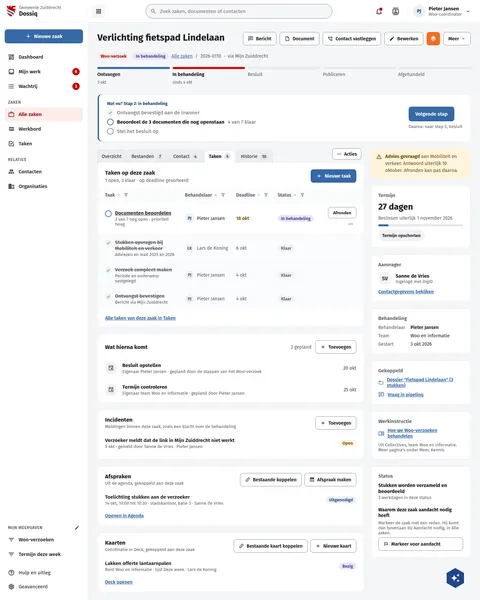
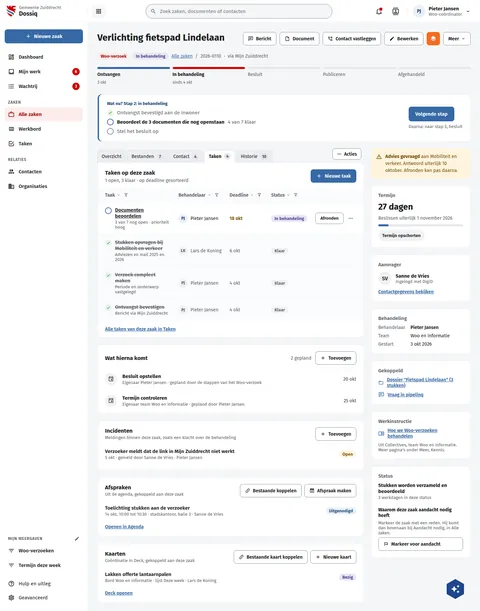
fix(screens): DqZaakTaken keeps the task menu on Afronden's line
#492 added the Taakacties menu beside Afronden, but the actions cell
wrapped it onto a second line, so the board's task row drew 97px against
dossiq's 79.4. The actions cell no longer wraps.

Assisted-by: ClaudeCode:claude-opus-5-5

diff --git a/preview/screens/boards/DqZaakTaken.html b/preview/screens/boards/DqZaakTaken.html
@@ -251,7 +251,7 @@ a{color:var(--sc-primary, #3669a5)}a:hover{color:var(--sc-primary-deep, #234a78)
                         <td style="padding: 14px 12px"><span style="display: flex; align-items: center; gap: 8px; white-space: nowrap"><span style="width: 28px; height: 28px; border-radius: 14px; font-size: 12px; font-weight: 700; display: flex; align-items: center; justify-content: center; background: var(--sc-primary-light, #eaf0f7); color: var(--sc-primary-deep, #234a78)">PJ</span>Pieter Jansen</span></td>
                         <td style="padding: 14px 12px; white-space: nowrap"><span style="font-weight: 600; color: #7a4f00">18 okt</span></td>
                         <td style="padding: 14px 12px"><span style="display: inline-block; padding: 3px 10px; border-radius: 12px; font-size: 13px; font-weight: 600; white-space: nowrap; background: #e8e6f6; color: #4a3f8f">In behandeling</span></td>
-                        <td style="padding: 14px 22px 14px 12px; text-align: right"><button type="button" style="height: 34px; padding: 0 14px; border: 1px solid var(--sc-work-field, #828a95); border-radius: 8px; background: #ffffff; font: 600 13px var(--sc-font, 'Fira Sans'), sans-serif; color: var(--sc-work-ink, #1b1c1d); white-space: nowrap">Afronden</button><button type="button" aria-label="Taakacties" style="width: 34px; height: 34px; margin-left: 4px; display: inline-flex; vertical-align: middle; align-items: center; justify-content: center; border: 0; border-radius: 8px; background: transparent; color: var(--sc-primary, #3669a5)"><svg width="18" height="18" viewbox="0 0 24 24" fill="currentColor" aria-hidden="true"><path d="M16,12A2,2 0 0,1 18,10A2,2 0 0,1 20,12A2,2 0 0,1 18,14A2,2 0 0,1 16,12M10,12A2,2 0 0,1 12,10A2,2 0 0,1 14,12A2,2 0 0,1 12,14A2,2 0 0,1 10,12M4,12A2,2 0 0,1 6,10A2,2 0 0,1 8,12A2,2 0 0,1 6,14A2,2 0 0,1 4,12Z"></path></svg></button></td>
+                        <td style="padding: 14px 22px 14px 12px; text-align: right; white-space: nowrap"><button type="button" style="height: 34px; padding: 0 14px; border: 1px solid var(--sc-work-field, #828a95); border-radius: 8px; background: #ffffff; font: 600 13px var(--sc-font, 'Fira Sans'), sans-serif; color: var(--sc-work-ink, #1b1c1d); white-space: nowrap">Afronden</button><button type="button" aria-label="Taakacties" style="width: 34px; height: 34px; margin-left: 4px; display: inline-flex; vertical-align: middle; align-items: center; justify-content: center; border: 0; border-radius: 8px; background: transparent; color: var(--sc-primary, #3669a5)"><svg width="18" height="18" viewbox="0 0 24 24" fill="currentColor" aria-hidden="true"><path d="M16,12A2,2 0 0,1 18,10A2,2 0 0,1 20,12A2,2 0 0,1 18,14A2,2 0 0,1 16,12M10,12A2,2 0 0,1 12,10A2,2 0 0,1 14,12A2,2 0 0,1 12,14A2,2 0 0,1 10,12M4,12A2,2 0 0,1 6,10A2,2 0 0,1 8,12A2,2 0 0,1 6,14A2,2 0 0,1 4,12Z"></path></svg></button></td>
                       </tr>
                     
                       <tr style="border-top: 1px solid var(--sc-work-soft, #eef0f3); background: #fafbfc; color: var(--sc-work-muted, #5e6168)">
@@ -259,7 +259,7 @@ a{color:var(--sc-primary, #3669a5)}a:hover{color:var(--sc-primary-deep, #234a78)
                         <td style="padding: 14px 12px"><span style="display: flex; align-items: center; gap: 8px; white-space: nowrap"><span style="width: 28px; height: 28px; border-radius: 14px; font-size: 12px; font-weight: 700; display: flex; align-items: center; justify-content: center; background: var(--sc-work-chip, #f0f1f3); color: var(--sc-work-muted, #5e6168)">LK</span>Lars de Koning</span></td>
                         <td style="padding: 14px 12px; white-space: nowrap"><span style="color: var(--sc-work-muted, #5e6168)">6 okt</span></td>
                         <td style="padding: 14px 12px"><span style="display: inline-block; padding: 3px 10px; border-radius: 12px; font-size: 13px; font-weight: 600; white-space: nowrap; background: var(--sc-work-chip, #f0f1f3); color: var(--sc-work-muted, #5e6168)">Klaar</span></td>
-                        <td style="padding: 14px 22px 14px 12px; text-align: right"></td>
+                        <td style="padding: 14px 22px 14px 12px; text-align: right; white-space: nowrap"></td>
                       </tr>
                     
                       <tr style="border-top: 1px solid var(--sc-work-soft, #eef0f3); background: #fafbfc; color: var(--sc-work-muted, #5e6168)">
@@ -267,7 +267,7 @@ a{color:var(--sc-primary, #3669a5)}a:hover{color:var(--sc-primary-deep, #234a78)
                         <td style="padding: 14px 12px"><span style="display: flex; align-items: center; gap: 8px; white-space: nowrap"><span style="width: 28px; height: 28px; border-radius: 14px; font-size: 12px; font-weight: 700; display: flex; align-items: center; justify-content: center; background: var(--sc-work-chip, #f0f1f3); color: var(--sc-work-muted, #5e6168)">PJ</span>Pieter Jansen</span></td>
                         <td style="padding: 14px 12px; white-space: nowrap"><span style="color: var(--sc-work-muted, #5e6168)">4 okt</span></td>
                         <td style="padding: 14px 12px"><span style="display: inline-block; padding: 3px 10px; border-radius: 12px; font-size: 13px; font-weight: 600; white-space: nowrap; background: var(--sc-work-chip, #f0f1f3); color: var(--sc-work-muted, #5e6168)">Klaar</span></td>
-                        <td style="padding: 14px 22px 14px 12px; text-align: right"></td>
+                        <td style="padding: 14px 22px 14px 12px; text-align: right; white-space: nowrap"></td>
                       </tr>
                     
                       <tr style="border-top: 1px solid var(--sc-work-soft, #eef0f3); background: #fafbfc; color: var(--sc-work-muted, #5e6168)">
@@ -275,7 +275,7 @@ a{color:var(--sc-primary, #3669a5)}a:hover{color:var(--sc-primary-deep, #234a78)
                         <td style="padding: 14px 12px"><span style="display: flex; align-items: center; gap: 8px; white-space: nowrap"><span style="width: 28px; height: 28px; border-radius: 14px; font-size: 12px; font-weight: 700; display: flex; align-items: center; justify-content: center; background: var(--sc-work-chip, #f0f1f3); color: var(--sc-work-muted, #5e6168)">PJ</span>Pieter Jansen</span></td>
                         <td style="padding: 14px 12px; white-space: nowrap"><span style="color: var(--sc-work-muted, #5e6168)">4 okt</span></td>
                         <td style="padding: 14px 12px"><span style="display: inline-block; padding: 3px 10px; border-radius: 12px; font-size: 13px; font-weight: 600; white-space: nowrap; background: var(--sc-work-chip, #f0f1f3); color: var(--sc-work-muted, #5e6168)">Klaar</span></td>
-                        <td style="padding: 14px 22px 14px 12px; text-align: right"></td>
+                        <td style="padding: 14px 22px 14px 12px; text-align: right; white-space: nowrap"></td>
                       </tr>
                     
                   </tbody>

diff --git a/screens-src/zuiddrecht/DqZaakTaken.dc.html b/screens-src/zuiddrecht/DqZaakTaken.dc.html
@@ -101,7 +101,7 @@ a{color:#3669a5}a:hover{color:#234a78}
                         <td style="padding: 14px 12px"><span style="display: flex; align-items: center; gap: 8px; white-space: nowrap"><span style="{{ t.avatar }}">{{ t.initials }}</span>{{ t.owner }}</span></td>
                         <td style="padding: 14px 12px; white-space: nowrap"><span style="{{ t.dueStyle }}">{{ t.due }}</span></td>
                         <td style="padding: 14px 12px"><span style="{{ t.pill }}">{{ t.status }}</span></td>
-                        <td style="padding: 14px 22px 14px 12px; text-align: right"><sc-if value="{{ t.open }}" hint-placeholder-val="{{ false }}"><button type="button" style="height: 34px; padding: 0 14px; border: 1px solid #828a95; border-radius: 8px; background: #ffffff; font: 600 13px 'Fira Sans', sans-serif; color: #1b1c1d; white-space: nowrap">Afronden</button><button type="button" aria-label="Taakacties" style="width: 34px; height: 34px; margin-left: 4px; display: inline-flex; vertical-align: middle; align-items: center; justify-content: center; border: 0; border-radius: 8px; background: transparent; color: #3669a5"><svg width="18" height="18" viewBox="0 0 24 24" fill="currentColor" aria-hidden="true"><path d="M16,12A2,2 0 0,1 18,10A2,2 0 0,1 20,12A2,2 0 0,1 18,14A2,2 0 0,1 16,12M10,12A2,2 0 0,1 12,10A2,2 0 0,1 14,12A2,2 0 0,1 12,14A2,2 0 0,1 10,12M4,12A2,2 0 0,1 6,10A2,2 0 0,1 8,12A2,2 0 0,1 6,14A2,2 0 0,1 4,12Z"></path></svg></button></sc-if></td>
+                        <td style="padding: 14px 22px 14px 12px; text-align: right; white-space: nowrap"><sc-if value="{{ t.open }}" hint-placeholder-val="{{ false }}"><button type="button" style="height: 34px; padding: 0 14px; border: 1px solid #828a95; border-radius: 8px; background: #ffffff; font: 600 13px 'Fira Sans', sans-serif; color: #1b1c1d; white-space: nowrap">Afronden</button><button type="button" aria-label="Taakacties" style="width: 34px; height: 34px; margin-left: 4px; display: inline-flex; vertical-align: middle; align-items: center; justify-content: center; border: 0; border-radius: 8px; background: transparent; color: #3669a5"><svg width="18" height="18" viewBox="0 0 24 24" fill="currentColor" aria-hidden="true"><path d="M16,12A2,2 0 0,1 18,10A2,2 0 0,1 20,12A2,2 0 0,1 18,14A2,2 0 0,1 16,12M10,12A2,2 0 0,1 12,10A2,2 0 0,1 14,12A2,2 0 0,1 12,14A2,2 0 0,1 10,12M4,12A2,2 0 0,1 6,10A2,2 0 0,1 8,12A2,2 0 0,1 6,14A2,2 0 0,1 4,12Z"></path></svg></button></sc-if></td>
                       </tr>
                     </sc-for>
                   </tbody>
